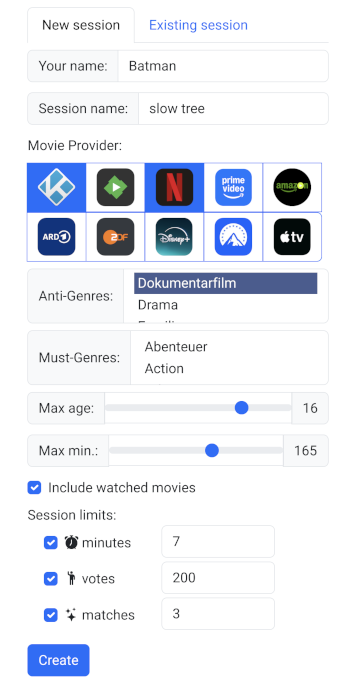
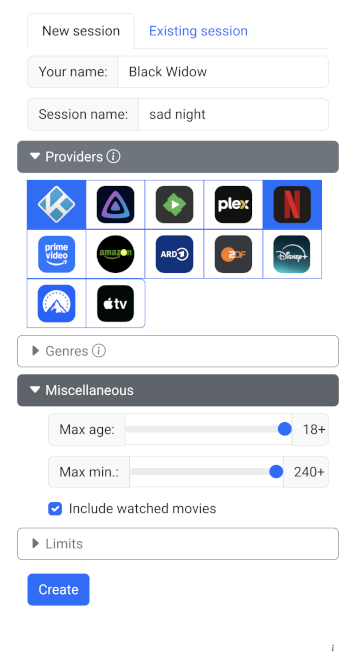
README and screenshot update

diff --git a/README.md b/README.md
@@ -162,18 +162,6 @@ Some of the options may collide with the possibility to revote. So maybe the las
 
 The software is provided as is. It is in a very early state but its working for me. I hope that someone out there can use it or even help me improve it. So please send me your feedback!
 
-## Demo
-
-~~I have a demo instance deployed under~~
-
-~~[http://srv30258.blue.kundencontroller.de:5000](http://srv30258.blue.kundencontroller.de:5000)~~
-
-~~This is only accessable via ipv6 and it may be very slow ...~~
-
-~~The instance will reset every day and doesn't get to much attention from me ;-) Just a free server with a quick and dirty public  deployment and a KODi Dummy API enabled.~~
-
-The Instance is broken and I will not invest more time in it :-/
-
 ## Impressions
 
 Session creation screen:
